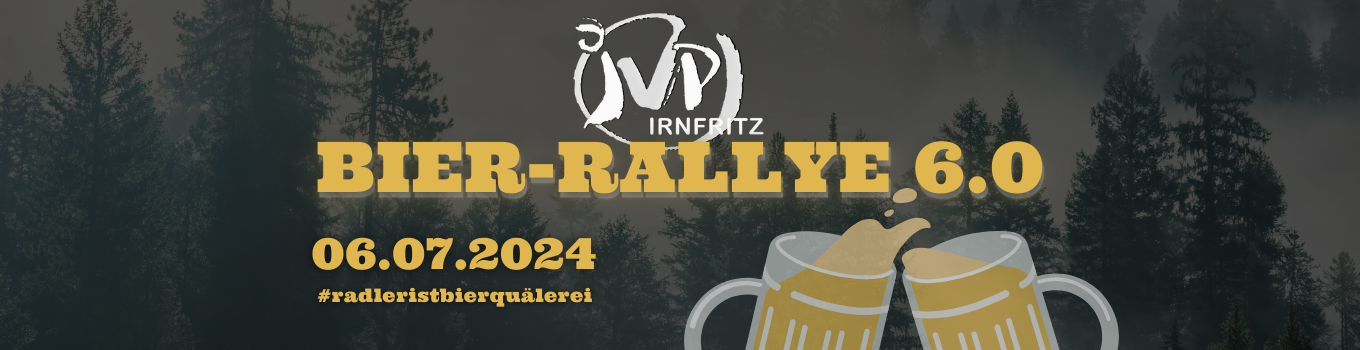
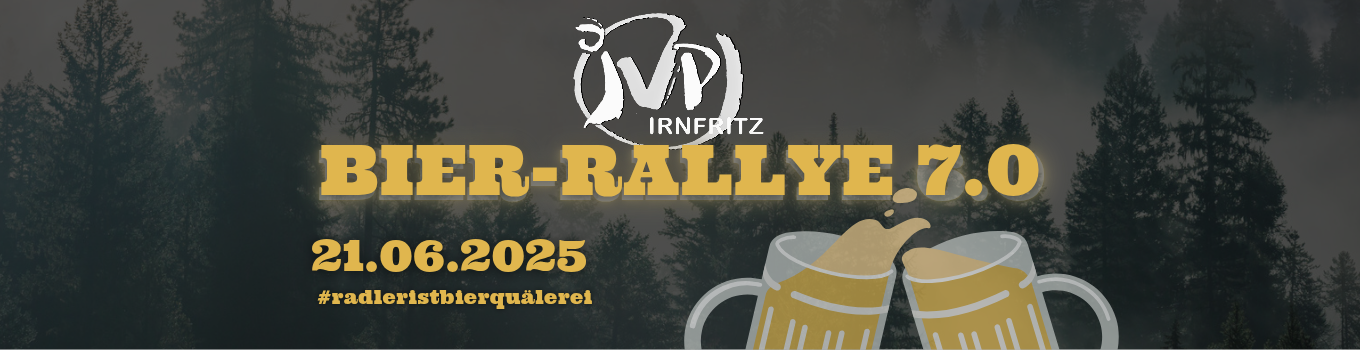
feat: prepare for edition 2025

diff --git a/apps/bierrallye-irnfritz/src/app/info/general-info/general-info.component.html b/apps/bierrallye-irnfritz/src/app/info/general-info/general-info.component.html
@@ -1,37 +1,38 @@
-<div class="header">
-  <span>Bier-Rallye Vol. 6</span>
-</div>
-<div class="grid-container">
-  <app-event-info />
-  @if (featureService.isPreEvent()) {
-    <div class="flex-column">
-      <div class="description">
-        <p>
-          Bereits zum 6. mal wagen wir uns gemeinsam mit euch auf die wohl
-          flüssigste Rennstrecke im Waldviertel und darüber hinaus! Wie schon
-          die Jahre zuvor werden die idyllischen Wälder rund um unsere
-          wunderschöne Heimat zu einem Schauplatz voller Action, Spaß und
-          unverantwortlichem Alkoholkonsum.
-        </p>
-      </div>
+<!-- Col. 2 -->
+<span class="header">Bier-Rallye Vol. 7</span>
+
+<!-- Col. 1-->
+<app-event-info />
+
+<!-- Col. 2 -->
+@if (featureService.isPreEvent()) {
+  <div class="flex-column">
+    <div class="description">
+      <p>
+        Bereits zum 7. mal wagen wir uns gemeinsam mit euch auf die wohl
+        flüssigste Rennstrecke im Waldviertel und darüber hinaus! Wie schon die
+        Jahre zuvor werden die idyllischen Wälder rund um unsere wunderschöne
+        Heimat zu einem Schauplatz voller Action, Spaß und unverantwortlichem
+        Alkoholkonsum.
+      </p>
     </div>
-  }
-  @if (featureService.isPostEvent()) {
-    <div class="flex-column">
-      <div class="header">
-        <p>This was Bierrallye Vol. 6</p>
-      </div>
-      <div class="description">
-        <p>
-          Wir bedanke uns für Eure Teilnahme und hoffen, ihr hattet genau so
-          viel Spaß wie wir!
-        </p>
-        <p>
-          Über den Button "zur Auswertung" könnt ihr das Endergebnis jederzeit
-          abrufen.
-        </p>
-        <p>Bis zum nächsten Jahr & stay tuned ;)</p>
-      </div>
+  </div>
+}
+@if (featureService.isPostEvent()) {
+  <div class="flex-column">
+    <div class="header">
+      <p>This was Bierrallye Vol. 7</p>
     </div>
-  }
-</div>
+    <div class="description">
+      <p>
+        Wir bedanke uns für Eure Teilnahme und hoffen, ihr hattet genau so viel
+        Spaß wie wir!
+      </p>
+      <p>
+        Über den Button "zur Auswertung" könnt ihr das Endergebnis jederzeit
+        abrufen.
+      </p>
+      <p>Bis zum nächsten Jahr & stay tuned ;)</p>
+    </div>
+  </div>
+}

diff --git a/apps/bierrallye-irnfritz/src/app/info/preparation/exercise-plan/exercise-plan.component.html b/apps/bierrallye-irnfritz/src/app/info/preparation/exercise-plan/exercise-plan.component.html
@@ -3,13 +3,13 @@
     <div class="plan-info">
       <span class="header">Trainingsplan</span>
       <span class="sub-header">FÜR EINE VORBEREITUNGSZEIT VON</span>
-      <span class="sub-header">CA. 3 MONATEN</span>
+      <span class="sub-header">CA. EINEM MONAT</span>
     </div>
     <div class="plan-container">
       <div class="plan-row">
         <b class="step">1</b>
         <div>
-          <b class="month">März/April: Ausdauer & Koordination</b>
+          <b class="month">Mai: Ausdauer & Koordination</b>
           <p>
             Versorgt eure Freunde im 5 km-Umkreis per Fußmarsch mit vollen
             Bier-/ oder Weinkisten. Helft ihnen anschließend dabei sie zu leeren
@@ -20,7 +20,7 @@
       <div class="plan-row">
         <b class="step">2</b>
         <div>
-          <b class="month">April/Mai: Massephase</b>
+          <b class="month">Mai/Juni: Massephase</b>
           <p>
             Trinkt Massen an Bier und Spritzwein um euren Körper auch von innen
             optimal auf den Wettkampf vorzubereiten
@@ -30,7 +30,7 @@
       <div class="plan-row">
         <b class="step">3</b>
         <div>
-          <b class="month">Mai/Juni: Abschlussvorbereitungen</b>
+          <b class="month">Juni: Abschlussvorbereitungen</b>
           <p>
             Plant euren Team-Auftritt und übt eure Siegesposen! Ein stabiles
             Mindset ist schon der halbe Gewinn.

diff --git a/libs/registration/ui/src/lib/dsgvo-dialog/dsgvo-dialog.component.html b/libs/registration/ui/src/lib/dsgvo-dialog/dsgvo-dialog.component.html
@@ -1,4 +1,4 @@
-<h2 mat-dialog-title>Teilnahmebedingungen Bier-Rallye der JVP Irnfritz 2024</h2>
+<h2 mat-dialog-title>Teilnahmebedingungen Bier-Rallye der JVP Irnfritz 2025</h2>
 <mat-dialog-content>
   <p>
     Die folgenden Teilnahmebedingungen sind von allen Teilnehmern vor dem Start
@@ -76,7 +76,7 @@
     Mit ihrer Unterschrift erteilen alle Teilnehmer dem Veranstalter im Sinne
     der DSGVO die Erlaubnis, Foto- und Videomaterial während der Veranstaltung
     anfertigen und auf Social-Media-Plattformen veröffentlichen zu dürfen, um
-    die erlebten Eindrücke der Bier-Rallye 2024 für die Nachwelt festzuhalten
+    die erlebten Eindrücke der Bier-Rallye 2025 für die Nachwelt festzuhalten
     und die Veranstaltung für die nächsten Jahre bewerben zu können. Zur
     Anmeldung wird ein Online-Kontaktformular auf der Website
     „bierrallye-irnfritz.at“ zur Verfügung gestellt, mittels welchem
@@ -90,5 +90,7 @@
 </mat-dialog-content>
 <mat-dialog-actions align="end">
   <button mat-button [mat-dialog-close]="false">Ablehnen</button>
-  <button mat-button [mat-dialog-close]="true" cdkFocusInitial>Akzeptieren</button>
+  <button mat-button [mat-dialog-close]="true" cdkFocusInitial>
+    Akzeptieren
+  </button>
 </mat-dialog-actions>

diff --git a/apps/bierrallye-irnfritz/src/app/info/hardfacts/hardfacts.component.html b/apps/bierrallye-irnfritz/src/app/info/hardfacts/hardfacts.component.html
@@ -12,7 +12,7 @@
       </div>
       <div class="step">
         <img src="assets/icons/3.png" height="50" width="50" />
-        <span class="description">50 € Startgeld pro Team</span>
+        <span class="description">60 € Startgeld pro Team</span>
       </div>
       <div class="step">
         <img src="assets/icons/4.png" height="50" width="50" />
@@ -31,9 +31,12 @@
       </div>
       <div class="step">
         <img src="assets/icons/6.png" height="50" width="50" />
-        <span class="description">
-          Aftershowparty (für alle, die noch können)
-        </span>
+        <div class="two-row-description">
+          <span class="description">
+            Aftershowparty (für alle, die noch können)
+          </span>
+          <span class="sub-description">mit dem Star-DJ "Fredl"</span>
+        </div>
       </div>
     </div>
   </mat-card-content>

diff --git a/apps/bierrallye-irnfritz/src/app/info/general-info/general-info.component.scss b/apps/bierrallye-irnfritz/src/app/info/general-info/general-info.component.scss
@@ -1,18 +1,14 @@
 :host {
   width: 100%;
-  display: flex;
-  flex-direction: column;
-  gap: 2rem;
+  height: 100%;
+  display: grid;
+  grid-template-columns: 25% 75%;
+  grid-gap: 2rem;
   box-sizing: border-box;
 }
 
-.grid-container {
-  width: 100%;
-  height: 100%;
-  display: grid;
-  grid-template-columns: 20% 80%;
-  grid-gap: 2rem;
-  box-sizing: border-box;
+.header {
+  grid-column: 2;
 }
 
 .flex-column {
@@ -35,9 +31,9 @@
 }
 
 @media only screen and (max-width: 1170px) {
-  .grid-container {
+  :host {
     display: flex;
-    flex-direction: column-reverse;
+    flex-direction: column;
     box-sizing: border-box;
     padding-right: unset;
   }

diff --git a/libs/racing/feature/src/lib/evaluation/evaluation.component.html b/libs/racing/feature/src/lib/evaluation/evaluation.component.html
@@ -6,7 +6,7 @@
 
 <mat-card appearance="outlined">
   <mat-card-header>
-    <mat-card-title>Auswertung Bierrallye 2024</mat-card-title>
+    <mat-card-title>Auswertung Bierrallye 2025</mat-card-title>
   </mat-card-header>
   <mat-card-content>
     <gpx-expandable-dynamic-table

diff --git a/apps/bierrallye-irnfritz/src/app/core/footer/footer.component.html b/apps/bierrallye-irnfritz/src/app/core/footer/footer.component.html
@@ -1,7 +1,7 @@
 <div>
   <a [routerLink]="'impressum'" id="impressum">Impressum</a>
   <span>&nbsp;|&nbsp;</span>
-  <span>Junge ÖVP Irnfritz-Messern 2024</span>
+  <span>Junge ÖVP Irnfritz-Messern 2025</span>
 </div>
 <div>
   <a [routerLink]="'login'" id="login">Login</a>

diff --git a/apps/bierrallye-irnfritz/src/app/info/event-info/event-info.component.html b/apps/bierrallye-irnfritz/src/app/info/event-info/event-info.component.html
@@ -1,6 +1,6 @@
 <mat-card appearance="outlined">
   <mat-card-content class="description">
-    <b>SAMSTAG, 6. Juli 2024</b>
+    <b>SAMSTAG, 21. Juni 2025</b>
     <b>AB 13 Uhr</b>
     <b>SPORTPLATZ IRNFRITZ</b>
     @switch (featureService.activeFeature()) {
